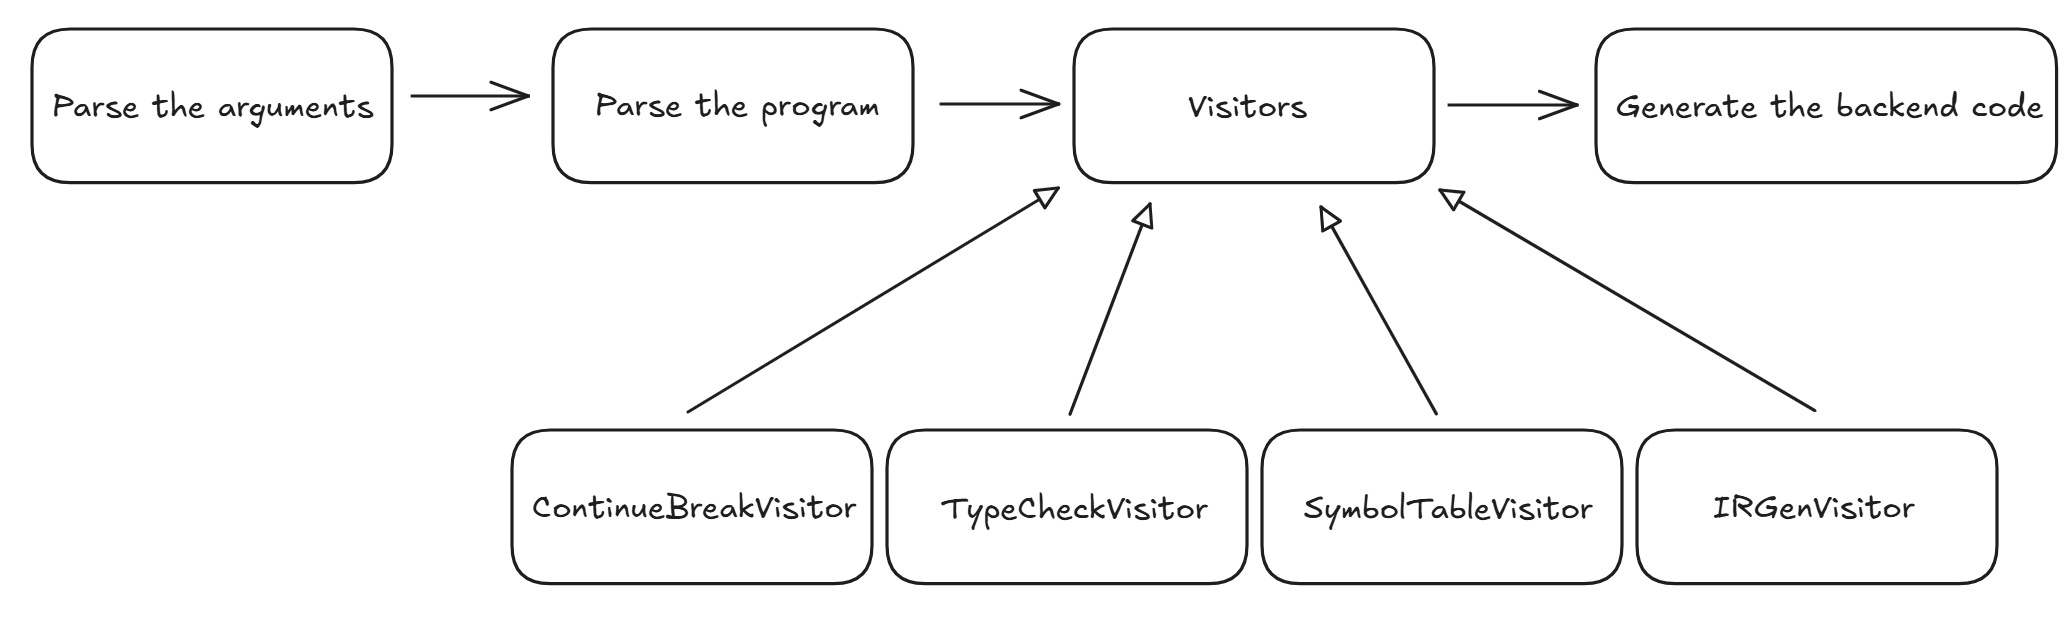
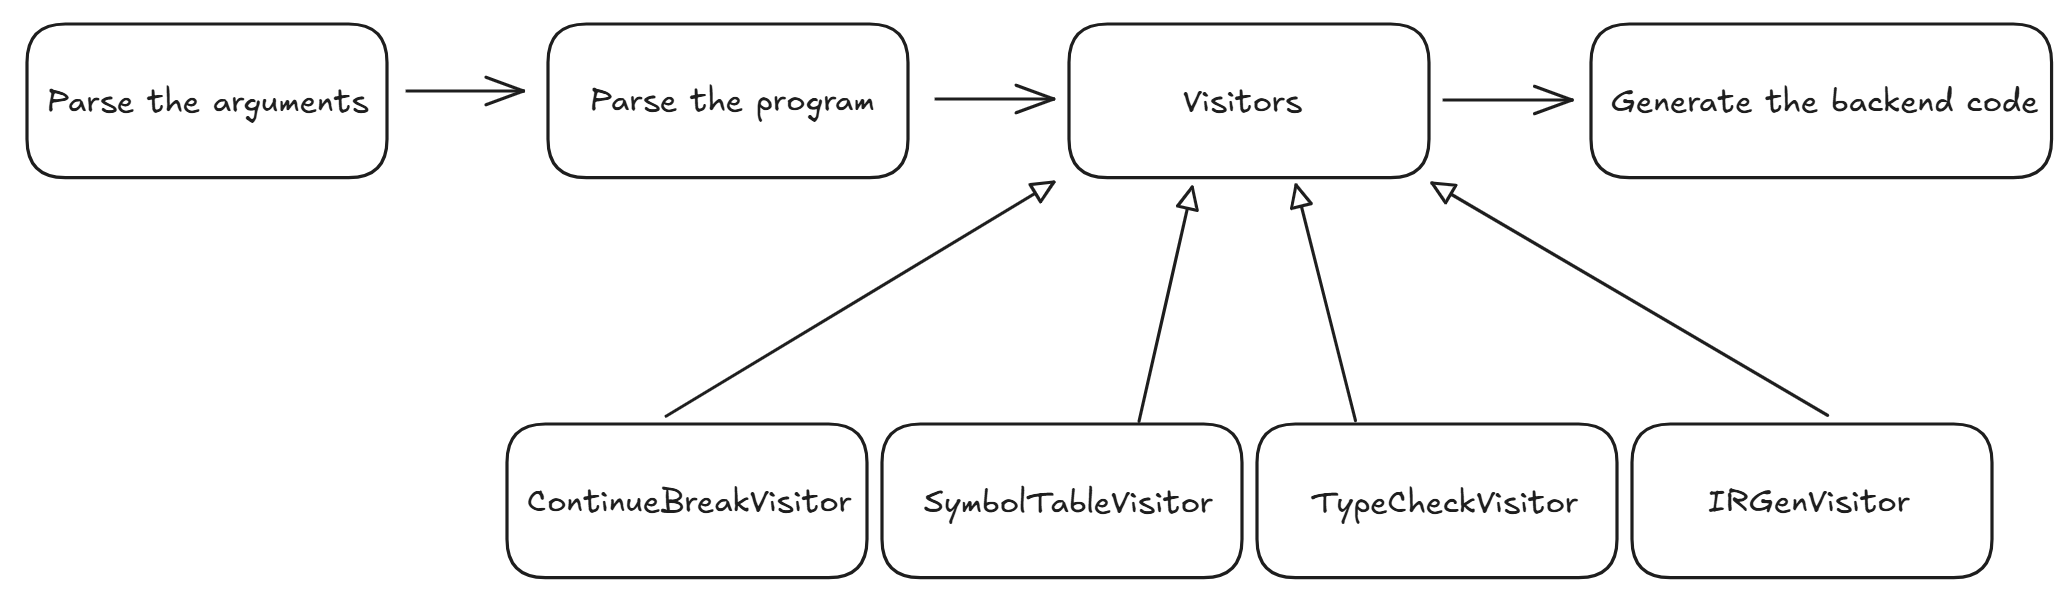
change schema qui inversait type check et symbol table visitor

diff --git a/devdoc.md b/devdoc.md
@@ -37,4 +37,4 @@ The backend code is generated using the CFGs created by the `IRGenVisitor`. The 
 
 # Summary
 
-![image](schema_execution.png)
+![image](pictures/schema_execution.png)
